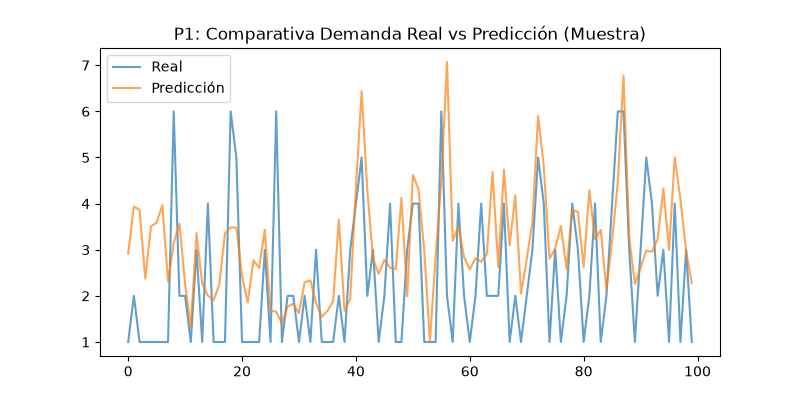
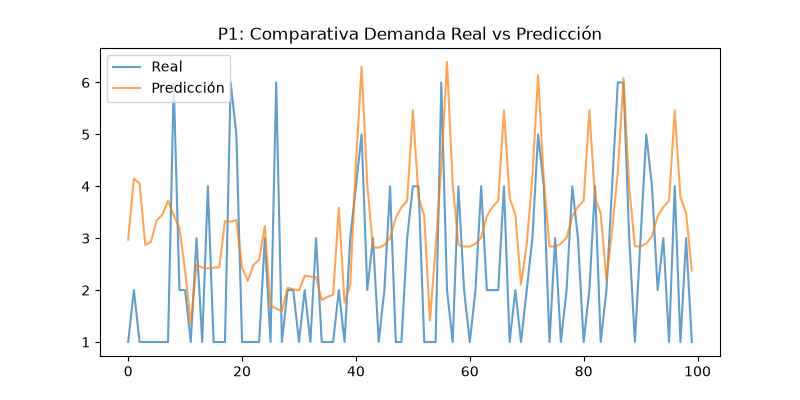
feat: MLproject reproducible, servidor SQLite y documentacion en README

diff --git a/mibici/modeling/train.py b/mibici/modeling/train.py
@@ -5,11 +5,13 @@ import git
 import matplotlib.pyplot as plt
 import mlflow
 import pandas as pd
+import argparse #agregado para semana 6
 from sklearn.cluster import KMeans
 from sklearn.ensemble import RandomForestClassifier, RandomForestRegressor
 from sklearn.metrics import mean_absolute_error, recall_score, silhouette_score
 from sklearn.dummy import DummyClassifier, DummyRegressor
 from sklearn.preprocessing import StandardScaler
+
 
 from mibici.config import (
     FIGURES_DIR,
@@ -82,7 +84,7 @@ def registrar_run_mlflow(
     artifacts : list | None
         Lista de rutas de artefactos.
     """
-    with mlflow.start_run(run_name=run_name):
+    with mlflow.start_run(run_name=run_name,nested=True):
 
         mlflow.set_tag("equipo", "equipo08")
         mlflow.set_tag("pregunta", pregunta)
@@ -119,7 +121,7 @@ def ejecutar_experimento_base(run_version: str = "v1"):
     data_hash = obtener_version_datos()
 
     # Configurar el experimento central en MLflow
-    mlflow.set_experiment("mibici-equipo08")
+    #mlflow.set_experiment("mibici-equipo08")#Corrección 21OCT26
 
     # =========================================================================
     # PREGUNTA 1 (P1): REGRESIÓN DE DEMANDA FUTURA
@@ -358,5 +360,166 @@ def ejecutar_experimento_base(run_version: str = "v1"):
 
     print(f"P3 completado | silhouette_score: {sil_score:.4f}")
 
+#Modificación semana 6
+#----------------------
+
+def ejecutar_por_pregunta(
+    question: str = "p1",
+    model: str = "rf",
+    n_estimators: int = 300,
+    max_depth: int | None = None,
+    n_clusters: int = 2,
+    run_version: str = "v1"
+):
+    """Ejecuta una pregunta específica (P1, P2 o P3) según los parámetros de MLproject."""
+    FIGURES_DIR.mkdir(parents=True, exist_ok=True)
+    parquet_path = PROCESSED_DATA_DIR / "viajes_clean.parquet"
+    
+    if not parquet_path.exists():
+        print(f"Error: No existe el archivo {parquet_path}. Ejecuta primero 'python -m mibici.dataset'")
+        return
+
+    df_viajes = pd.read_parquet(parquet_path)
+    commit_hash = obtener_commit_hash()
+    data_hash = obtener_version_datos()
+    #mlflow.set_experiment("mibici-equipo08") Corrección 21OCT26
+
+    question = question.lower()
+
+    # --- EJECUCIÓN P1 ---
+    if question == "p1":
+        print(f"\n--- Ejecutando Run P1_{run_version} ---")
+        p1_df = preparar_features_p1_demanda(df_viajes)
+        p1_train = p1_df[(p1_df["fecha"] >= pd.to_datetime(TRAIN_START_DATE).date()) & (p1_df["fecha"] <= pd.to_datetime(TRAIN_END_DATE).date())]
+        p1_test = p1_df[(p1_df["fecha"] >= pd.to_datetime(TEST_START_DATE).date()) & (p1_df["fecha"] <= pd.to_datetime(TEST_END_DATE).date())]
+
+        features_p1 = ["origen_id", "hora", "dia_semana", "es_fin_semana"]
+        X_train_p1, y_train_p1 = p1_train[features_p1], p1_train["viajes_salientes"]
+        X_test_p1, y_test_p1 = p1_test[features_p1], p1_test["viajes_salientes"]
+
+        depth_val = None if max_depth is None or max_depth <= 0 else max_depth
+        
+        model_p1 = RandomForestRegressor(n_estimators=n_estimators, max_depth=depth_val, min_samples_split=2, min_samples_leaf=2, random_state=RANDOM_SEED)
+        model_p1.fit(X_train_p1, y_train_p1)
+        preds_p1 = model_p1.predict(X_test_p1)
+        test_mae = mean_absolute_error(y_test_p1, preds_p1)
+
+        fig, ax = plt.subplots(figsize=(8, 4))
+        ax.plot(y_test_p1.values[:100], label="Real", alpha=0.7)
+        ax.plot(preds_p1[:100], label="Predicción", alpha=0.7)
+        ax.set_title("P1: Comparativa Demanda Real vs Predicción")
+        ax.legend()
+        fig_path_p1 = FIGURES_DIR / f"p1_demanda_pred_{run_version}.png"
+        plt.savefig(fig_path_p1)
+        plt.close()
+
+        registrar_run_mlflow(
+            run_name=f"P1_{run_version}_{model.upper()}",
+            pregunta="P1",
+            commit_hash=commit_hash,
+            params={
+                "data_hash_version": data_hash,
+                "model_type": model,
+                "n_estimators": n_estimators,
+                "max_depth": str(depth_val),
+                "seed": RANDOM_SEED,
+            },
+            metrics={"test_mae": test_mae},
+            artifacts=[fig_path_p1],
+        )
+        print(f"P1 completado | test_mae: {test_mae:.4f}")
+
+    # --- EJECUCIÓN P2 ---
+    elif question == "p2":
+        print(f"\n--- Ejecutando Run P2_{run_version} ---")
+        p2_df = preparar_features_p2_riesgo(df_viajes)
+        p2_train = p2_df[(p2_df["fecha"] >= pd.to_datetime(TRAIN_START_DATE).date()) & (p2_df["fecha"] <= pd.to_datetime(TRAIN_END_DATE).date())]
+        p2_test = p2_df[(p2_df["fecha"] >= pd.to_datetime(TEST_START_DATE).date()) & (p2_df["fecha"] <= pd.to_datetime(TEST_END_DATE).date())]
+
+        features_p2 = ["estacion_id", "hora", "entradas", "salidas", "balance_neto", "balance_acumulado"]
+        X_train_p2, y_train_p2 = p2_train[features_p2], p2_train["target_riesgo_t1"]
+        X_test_p2, y_test_p2 = p2_test[features_p2], p2_test["target_riesgo_t1"]
+
+        model_p2 = RandomForestClassifier(n_estimators=n_estimators, random_state=RANDOM_SEED)
+        model_p2.fit(X_train_p2, y_train_p2)
+        preds_p2 = model_p2.predict(X_test_p2)
+        test_recall = recall_score(y_test_p2, preds_p2, zero_division=0)
+
+        fig, ax = plt.subplots(figsize=(6, 4))
+        pd.Series(preds_p2).value_counts().plot(kind="bar", ax=ax, color=["skyblue", "orange"])
+        ax.set_title("P2: Distribución de Predicciones de Riesgo")
+        fig_path_p2 = FIGURES_DIR / f"p2_riesgo_dist_{run_version}.png"
+        plt.savefig(fig_path_p2)
+        plt.close()
+
+        registrar_run_mlflow(
+            run_name=f"P2_{run_version}_{model.upper()}",
+            pregunta="P2",
+            commit_hash=commit_hash,
+            params={
+                "data_hash_version": data_hash,
+                "model_type": model,
+                "n_estimators": n_estimators,
+                "seed": RANDOM_SEED,
+            },
+            metrics={"test_recall": test_recall},
+            artifacts=[fig_path_p2],
+        )
+        print(f"P2 completado | test_recall: {test_recall:.4f}")
+
+    # --- EJECUCIÓN P3 ---
+    elif question == "p3":
+        print(f"\n--- Ejecutando Run P3_{run_version} ---")
+        p3_df = preparar_features_p3_clustering(df_viajes)
+        X_p3 = p3_df.drop(columns=["origen_id"])
+
+        kmeans = KMeans(n_clusters=n_clusters, random_state=RANDOM_SEED, n_init=10)
+        clusters = kmeans.fit_predict(X_p3)
+        sil_score = silhouette_score(X_p3, clusters)
+
+        fig, ax = plt.subplots(figsize=(8, 4))
+        for c in range(n_clusters):
+            ax.plot(X_p3[clusters == c].mean(axis=0).values, label=f"Cluster {c}")
+        ax.set_title("P3: Perfil Horario Promedio por Cluster")
+        ax.legend()
+        fig_path_p3 = FIGURES_DIR / f"p3_cluster_profiles_{run_version}.png"
+        plt.savefig(fig_path_p3)
+        plt.close()
+
+        registrar_run_mlflow(
+            run_name=f"P3_{run_version}_KMeans",
+            pregunta="P3",
+            commit_hash=commit_hash,
+            params={
+                "data_hash_version": data_hash,
+                "n_clusters": n_clusters,
+                "model_type": "KMeans",
+            },
+            metrics={"silhouette_score": sil_score},
+            artifacts=[fig_path_p3],
+        )
+        print(f"P3 completado | silhouette_score: {sil_score:.4f}")
+
+
 if __name__ == "__main__":
-    ejecutar_experimento_base(run_version="v1")
+    parser = argparse.ArgumentParser(description="Entrenamiento MLOps MiBici")
+    parser.add_argument("--question", type=str, default="all")
+    parser.add_argument("--model", type=str, default="rf")
+    parser.add_argument("--n_estimators", type=int, default=300)
+    parser.add_argument("--max_depth", type=int, default=-1)
+    parser.add_argument("--n_clusters", type=int, default=2)
+    parser.add_argument("--run_version", type=str, default="v1")
+
+    args = parser.parse_args()
+
+    if args.question.lower() == "all":
+        ejecutar_experimento_base(run_version="v1")
+    else:
+        ejecutar_por_pregunta(
+            question=args.question,
+            model=args.model,
+            n_estimators=args.n_estimators,
+            max_depth=args.max_depth,
+            n_clusters=args.n_clusters,
+            run_version="v1",
+        )

diff --git a/mibici/config.py b/mibici/config.py
@@ -18,3 +18,7 @@ TRAIN_START_DATE = "2026-01-01"
 TRAIN_END_DATE = "2026-04-30"
 TEST_START_DATE = "2026-05-01"
 TEST_END_DATE = "2026-05-31"
+
+#Variable para la base de datos
+import os
+MLFLOW_TRACKING_URI = os.getenv("MLFLOW_TRACKING_URI", "sqlite:///mlflow.db")

diff --git a/README.md b/README.md
@@ -102,3 +102,22 @@ Todo cambio debe realizarse en una rama de trabajo y fusionarse mediante Pull Re
 ```
 
 --------
+ACTUALIZACIÓN 21OCT26
+
+## Reproducción del Proyecto con MLflow Project
+
+## Reproducción con MLflow Project
+
+1. Levantar servidor local de tracking (en una Terminal 1):
+   mlflow server --backend-store-uri sqlite:///mlflow.db --port 5000
+
+2. Ejecutar Ingesta de datos (en una Terminal 2):
+   mlflow run . -e ingest --env-manager=local
+
+3. Ejecutar Entrenamiento completo (P1, P2 y P3):
+   mlflow run . -e train -P question=all -P n_estimators=300 -P run_version=v1 --env-manager=local
+
+4. Ejecutar Entrenamiento por pregunta individual:
+   - P1: mlflow run . -e train -P question=p1 -P n_estimators=300 -P max_depth=12 --env-manager=local
+   - P2: mlflow run . -e train -P question=p2 -P n_estimators=100 -P max_depth=8 --env-manager=local
+   - P3: mlflow run . -e train -P question=p3 -P n_clusters=4 --env-manager=local
